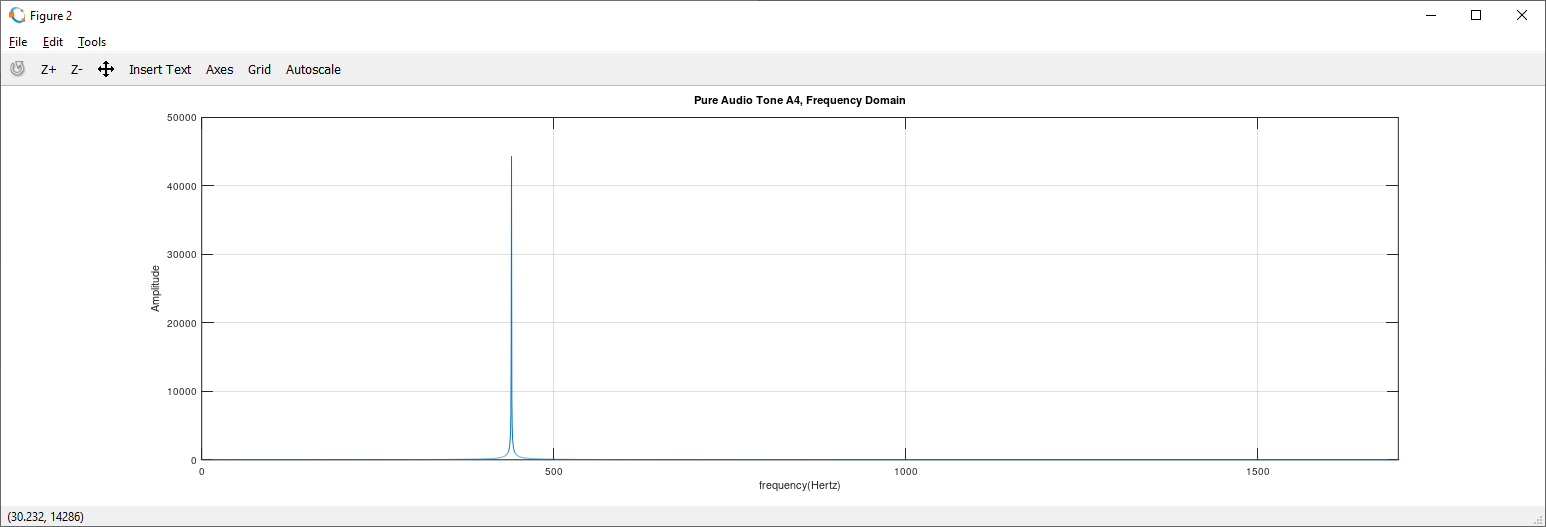
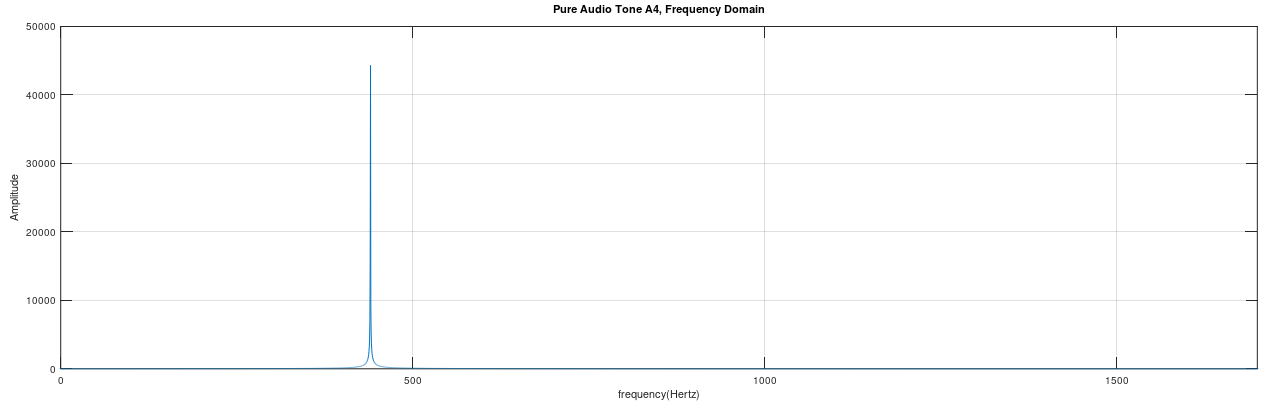
Finished the heterodyne page

diff --git a/heterodyne/heterodyne.html b/heterodyne/heterodyne.html
@@ -99,9 +99,9 @@
                     oscilloscope or a graphing calculator. The time domain simply refers to a signal that uses time as the
                     x-axis. Below is a time domain signal on an oscilloscope.
                 </p>
+
                 <div class="row">
                     <div class="col-md-3"></div>
-    
                     <div class="col-md-6">
                         <div class="hov">
                             <img class="img-fluid img-item" src="images/oscilloscope.jpg" alt="Oscilliscope showing a time domain signal">
@@ -109,6 +109,343 @@
                         </div>
                     </div>
                 </div>
+
+                <div class="divider"></div>
+
+                <h4 class="indent">Basic Concept - Frequency Domain</h4>
+                <p>
+                    Many people, except for electrical engineers, may not be familiar with the concept of the frequency domain.
+                    Signals from the time domain can be converted into the frequency domain through the use of an algorithm
+                    called the Fast Fourrier Transform (FFT). Frequency domain signals can be converted into a time domain signal
+                    by use of the inverse fast fourrier transform (IFFT). The theory of how these algorithms work is far beyond
+                    the scope of this webpage. More information on these subjects is readily available all over the internet.
+                </p>
+                <p>
+                    Eventhough the inner workings of the FFT algorithm is not explained here, its effects can be easily understood.
+                    A signal in the frequency domain shows the frequency content of the signal. Anyone who has played with an audio
+                    equalizer has seen a signal in the frequency domain. The columns on an audio equalizer tells you how strong the
+                    various frequencies of the audio signal are. In fact, FFT algorithms are used to produce the displays of audio
+                    equalizers. Below is an image of an audio equalizer and its various frequencies.
+                </p>
+
+                <div class="row">
+                    <div class="col-md-3"></div>
+                    <div class="col-md-6">
+                        <div class="hov">
+                            <img class="img-fluid img-item" src="images/audio_equalizer.png" alt="Audio equalizer showing the frequency content of an audio signal">
+                            <div class="overlay overlay-text">Audio equalizer showing the frequency content of an audio signal</div>
+                        </div>
+                    </div>
+                </div>
+
+                <p>
+                    The following image shows an audio signal that has been converted into the frequency domain on a computer using the FFT
+                    algorithm. The signal is interpreted the exact same way the display on an audio equalizer is read. The left side of
+                    the graph shows the strength of the lower frequencies while the right side shows the higher frequencies. All the code used
+                    to generate the frequency data in this website can be found in the Matlab folder after clicking the link found in the
+                    overview section above.
+                </p>
+
+                <div class="row">
+                    <div class="col-md-12">
+                        <div class="hov">
+                            <img class="img-fluid img-item" src="images/audio_spectrum.png" alt="Spectrum of an audio signal after using the FFT algorithm">
+                            <div class="overlay overlay-text">Spectrum of an audio signal after using the FFT algorithm</div>
+                        </div>
+                    </div>
+                </div>
+
+                <div class="divider"></div>
+
+                <h4 class="indent">Basic Concept - Low Pass Filter</h4>
+                <p>
+                    A low pass filter is used to filter out high frequencies from a signal. Anyone who has a custom audio system in their car will
+                    know what a low pass filter is. High frequency audio cannot be fed to the sub-woofer amplifier. High frequencies may damage the 
+                    amplifier and speakers as they are not designed to handle anything but bass frequencies. It is important to note that
+                    low pass filters do not completely eliminate high frequencies. They simply reduce the content of high frequencies until it is
+                    not detectable or not a problem for the low frequency hardware. We can use low pass filters to filter out unwanted high
+                    frequency content left over from the mixing process. More on this will be explained later. They are called low pass filters
+                    because they allow low frequencies to pass through while high frequencies are blocked.
+                </p>
+
+                <div class="divider"></div>
+
+                <h4 class="indent">Heterodyning simple tones</h4>
+
+                <p>
+                    This section shows the fundamental concept of mixing frequencies through the use of simple audio graphs and audio clips.
+                    The goal is provide a basic understangin of how mixing frequencies can produce new frequencies.
+                </p>
+                <p>
+                    Below is a graph of a simple tone generated using a computer. The note shown is A in the fourth octive (A4) and has a
+                    frequency of 440Hz. The audio file below the image plays the tone seen in the graph. The frequency spectrum of the
+                    tone can be seen in the image below the time domain graph. Note how only a single vertical line is present in the
+                    frequency domain. This is because this is a pure tone and only contains a single frequency. If you look closely at the
+                    x axis of the frequency graph, you will see the spike is at exactly 440Hz.
+                </p>
+
+                <div class="row">
+                    <div class="col-md-12">
+                        <div class="hov">
+                            <img class="img-fluid img-item" src="images/a4_time_domain.png" alt="Time domain graph of the note A4 (440Hz)">
+                            <div class="overlay overlay-text">Time domain graph of the note A4 (440Hz)</div>
+                        </div>
+                    </div>
+                </div>
+
+                <div class="row">
+                    <div class="col-md-12">
+                        <div class="hov">
+                            <img class="img-fluid img-item" src="images/a4_frequency_domain.png" alt="Frequency domain graph of the note A4 (440Hz)">
+                            <div class="overlay overlay-text">Frequency domain graph of the note A4 (440Hz)</div>
+                        </div>
+                    </div>
+                </div>
+
+                <figure>
+                    <figcaption>Pure Tone A4</figcaption>
+                    <audio controls class="d-block w-100 pb-3">
+                        <source src="audio/a4.wav" type="audio/mpeg">
+                    </audio>
+                </figure>
+
+                <p>
+                    Next, we have a graph of the pure tone C6 represented in the time and frequency domain along with an audio sample.
+                    Just as before, there is only a single vertical spike on the frequency graph. The spike is located at 1047Hz.
+                </p>
+
+                <div class="row">
+                    <div class="col-md-12">
+                        <div class="hov">
+                            <img class="img-fluid img-item" src="images/c6_time_domain.png" alt="Time domain graph of the note C6 (1047Hz)">
+                            <div class="overlay overlay-text">Time domain graph of the note C6 (1047Hz)</div>
+                        </div>
+                    </div>
+                </div>
+
+                <div class="row">
+                    <div class="col-md-12">
+                        <div class="hov">
+                            <img class="img-fluid img-item" src="images/c6_frequency_domain.png" alt="Frequency domain graph of the note C6 (1047Hz)">
+                            <div class="overlay overlay-text">Frequency domain graph of the note C6 (1047Hz)</div>
+                        </div>
+                    </div>
+                </div>
+
+                <figure>
+                    <figcaption>Pure Tone C6</figcaption>
+                    <audio controls class="d-block w-100 pb-3">
+                        <source src="audio/c6.wav" type="audio/mpeg">
+                    </audio>
+                </figure>
+
+                <p>
+                    We can mix these two tones together by using simple multiplication to make a new audio waveform as shown below.
+                </p>
+
+                <div class="row">
+                    <div class="col-md-12">
+                        <div class="hov">
+                            <img class="img-fluid img-item" src="images/a4_and_c6_mixed_time_domain.png" alt="A4 and C6 tones mixed together in the time domain">
+                            <div class="overlay overlay-text">A4 and C6 tones mixed together in the time domain</div>
+                        </div>
+                    </div>
+                </div>
+
+                <div class="row">
+                    <div class="col-md-12">
+                        <div class="hov">
+                            <img class="img-fluid img-item" src="images/a4_and_c6_mixed_frequency_domain.png" alt="A4 and C6 tones mixed together in the frequency domain">
+                            <div class="overlay overlay-text">A4 and C6 tones mixed together in the frequency domain</div>
+                        </div>
+                    </div>
+                </div>
+
+                <figure>
+                    <figcaption>Mixed tones A4 and C6</figcaption>
+                    <audio controls class="d-block w-100 pb-3">
+                        <source src="audio/a4c6_mixed.wav" type="audio/mpeg">
+                    </audio>
+                </figure>
+
+                <p>
+                    Wait! What's this? If we look at the frequency content of the mixed signal, the spikes at 440Hz and 1047Hz are gone!
+                    Instead, there are two spikes at 607Hz and 1487Hz! This is the power of mixing frequencies. <b>When two frequencies are mixed,
+                    the resulting frequencies are the addition and differnce of the original frequencies.</b>
+                </p>
+                <p>
+                    Here is a simple math summary of the bolded statement above:
+                    <br>
+                    1047Hz-440Hz = 607Hz
+                    <br>
+                    1047Hz+440Hz = 1487Hz
+                </p>
+                <p>
+                    Said in another way:
+                    <br>
+                    1047Hz X 440Hz = 1047Hz-440Hz AND 1047Hz+440Hz
+                    <br><br>
+                    An interesting side note is that the resulting spikes are only about half the height as the original spikes from the pure tones.
+                    This is due to the conservation of energy. Now that there are two spikes instead of 1, the audio energy needs to be spread out
+                    accross twice as many frequencies. If the two spikes are added together, they will be the same height as one of the pure tone
+                    spikes.
+                </p>
+                <p>
+                    Below is a visual representation of the math concepts from above.
+                </p>
+
+                <div class="row">
+                    <div class="col-md-12">
+                        <div class="hov">
+                            <img class="img-fluid img-item" src="images/all_tones_frequency_domain.png" alt="All tones shown together in the frequency domain">
+                            <div class="overlay overlay-text">All tones shown together in the frequency domain</div>
+                        </div>
+                    </div>
+                </div>
+
+                <p>
+                    Now that we have two new frequencies, let's say that we only want one of them. Lets keep the lower of the two frequencies.
+                    We can reduce the value of the higher frequency by applying a low pass filter. The image below shows a low pass filter plot
+                    overlaid on the spectrum of the mixed frequencies. Everything below the filter line will be left intact while everything
+                    above the filter line will be significantly reduced in amplitude.
+                </p>
+
+                <div class="row">
+                    <div class="col-md-12">
+                        <div class="hov">
+                            <img class="img-fluid img-item" src="images/filter_overlay.png" alt="Mixed frequencies with a low pass filter overlay">
+                            <div class="overlay overlay-text">Mixed frequencies with a low pass filter overlay</div>
+                        </div>
+                    </div>
+                </div>
+
+                <p>
+                    The graph below shows the audio spectrum after the signal has been passed through a low pass filter. Notice that the
+                    high frequency is not completely gone. A stronger filter could be applied to the signal but a stronger filter means
+                    more processing time would be required. Many times applying filters is a trade-off between effectiveness and processing
+                    time.
+                </p>
+
+                <div class="row">
+                    <div class="col-md-12">
+                        <div class="hov">
+                            <img class="img-fluid img-item" src="images/filtered_output.png" alt="Mixed frequencies after being processed by a low pass filter">
+                            <div class="overlay overlay-text">Mixed frequencies after being processed by a low pass filter</div>
+                        </div>
+                    </div>
+                </div>
+
+                <figure>
+                    <figcaption>Final Filtered Output</figcaption>
+                    <audio controls class="d-block w-100 pb-3">
+                        <source src="audio/a4c6_filtered.wav" type="audio/mpeg">
+                    </audio>
+                </figure>
+
+                <p>
+                    So what did we accomplish from all this? We mixed a high frequency with a lower frequency and shifted the high
+                    frequency down the audio spectrum. We can think of the high frequency as an ultrasonic signal and the low frequency
+                    as an IF (intermediate frequency). The next section will apply the exact same concept to an actual audio signal that 
+                    is far more complex but is too high in frequency for the human ear to understand...at least until after it is heterodyned. 
+                </p>
+
+                <div class="divider"></div>
+
+                <h4 class="indent">Heterodyning a real audio signal</h4>
+
+                <p>
+                    This section will use the concept of mixing signals with an IF to shift an audio signal down the frequency spectrum
+                    so it can be understood by the human ear. We will start with the audio signal with the spectrum shown below. The audio
+                    sample can also be listened to. All the audio frequencies in the signal below are between 5KHz and 10KHz.
+                </p>
+
+                <div class="row">
+                    <div class="col-md-12">
+                        <div class="hov">
+                            <img class="img-fluid img-item" src="images/original_shifted.png" alt="A high frequency audio signal">
+                            <div class="overlay overlay-text">A high frequency audio signal</div>
+                        </div>
+                    </div>
+                </div>
+
+                <figure>
+                    <figcaption>High Frequency Audio Signal</figcaption>
+                    <audio controls class="d-block w-100 pb-3">
+                        <source src="audio/orig_shift.wav" type="audio/mpeg">
+                    </audio>
+                </figure>
+
+                <p>
+                    Listening to the signal above does not reveal much about what it actually is. It has a rythmic quality to it but
+                    thats about all that can be discerned by listening to it with the human ear. We will now use a pure tone of 5KHz
+                    and mix it with the above signal. Since all the audio content is between 5KHz and 10KHz, after mixing, we will
+                    have two sets of frequencies. One set will be between 0Hz and 5KHz and the other will be between 10KHz and 15KHz.
+                    Remember, mixing two set of frequencies wil give you the addition of the two tones and the difference between the
+                    two tones.
+                </p>
+                <p>
+                    In other words:<br>
+                    (5KHz to 10KHz)+5KHz = (10KHZ to 15KHz)<br>
+                    (5KHz to 10KHz)-5KHz = (0Hz to 5KHz) 
+                </p>
+                <p>
+                    After mixing the signal with a 5KHz IF, the following spectrum is produced. This spectrum is shown in a logarithmic
+                    scale. The two portions are actually the same. The lower frequency portion has been spread out for clarity.
+                </p>
+
+                <div class="row">
+                    <div class="col-md-12">
+                        <div class="hov">
+                            <img class="img-fluid img-item" src="images/heterodyned_unfiltered.png" alt="Heterodyned audio signal before filtering">
+                            <div class="overlay overlay-text">Heterodyned audio signal before filtering</div>
+                        </div>
+                    </div>
+                </div>
+
+                <p>
+                    Note that a low pass filter has been overlaid on the above graph. We do not want to keep the second, high frequency
+                    part of the audio as it will add distortion to the heterodyned signal. The next graph shows the audio signal after
+                    the low pass filter is applied. The resulting audio can now be understood by the human ear!
+                </p>
+
+                <div class="row">
+                    <div class="col-md-12">
+                        <div class="hov">
+                            <img class="img-fluid img-item" src="images/heterodyned_filtered.png" alt="Heterodyned audio signal after filtering">
+                            <div class="overlay overlay-text">Heterodyned audio signal after filtering</div>
+                        </div>
+                    </div>
+                </div>
+
+                <figure>
+                    <figcaption>Heterodyned And Filtered Audio Signal</figcaption>
+                    <audio controls class="d-block w-100 pb-3">
+                        <source src="audio/output.wav" type="audio/mpeg">
+                    </audio>
+                </figure>
+
+                <p>
+                    <b>
+                        NOTE: If a motor or gearbox sounds similar to this audio sample, it must be replaced immediately as failure is imminent!
+                    </b>
+                </p>
+                <p>
+                    Thats it! we used the concept of mixing frequencies together to take a high frequency signal and shift it down the
+                    frequency spectrum so it can be understood by the human ear. This is the basic concept of the ultrasonic probes
+                    used for predictive maintenance of motors, gearboxes and bearings.
+                </p>
+                <p>
+                    As a side note, the unfiltered signal above can be heard and understood but it has a high frequency component to it
+                    that is undesirable. Below is the audio signal before it is passed through a low pass filter just in case anyone is
+                    curious at to what it sounds like.
+                </p>
+
+                <figure>
+                    <figcaption>Heterodyned, Unfiltered Audio Signal</figcaption>
+                    <audio controls class="d-block w-100 pb-3">
+                        <source src="audio/output_unfiltered.wav" type="audio/mpeg">
+                    </audio>
+                </figure>
         </div>
     </div>
         
